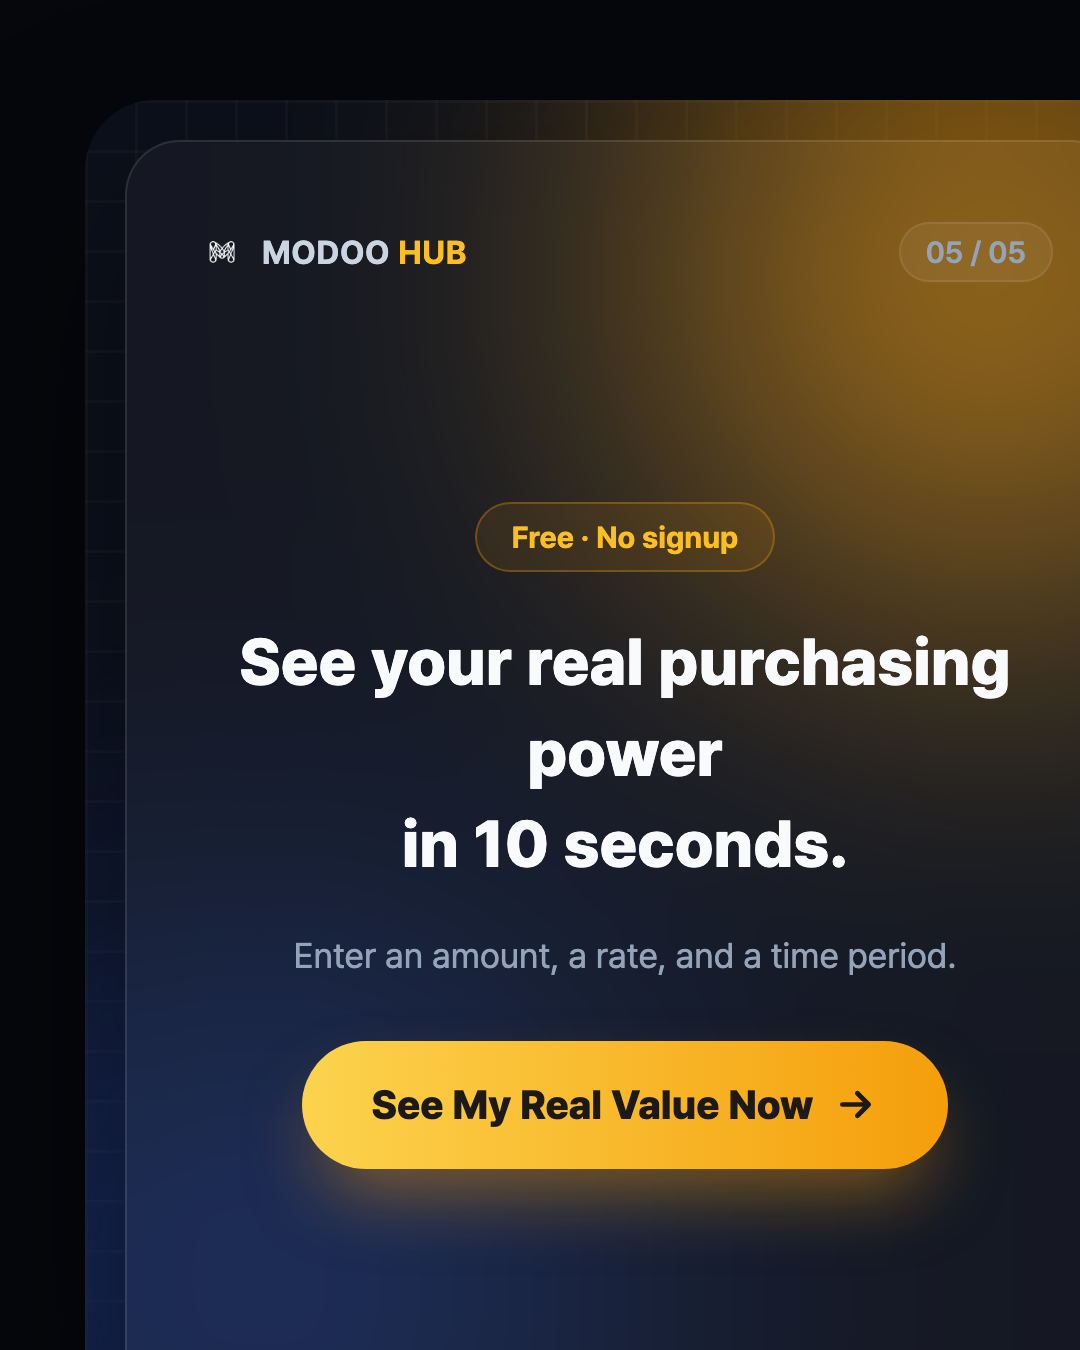
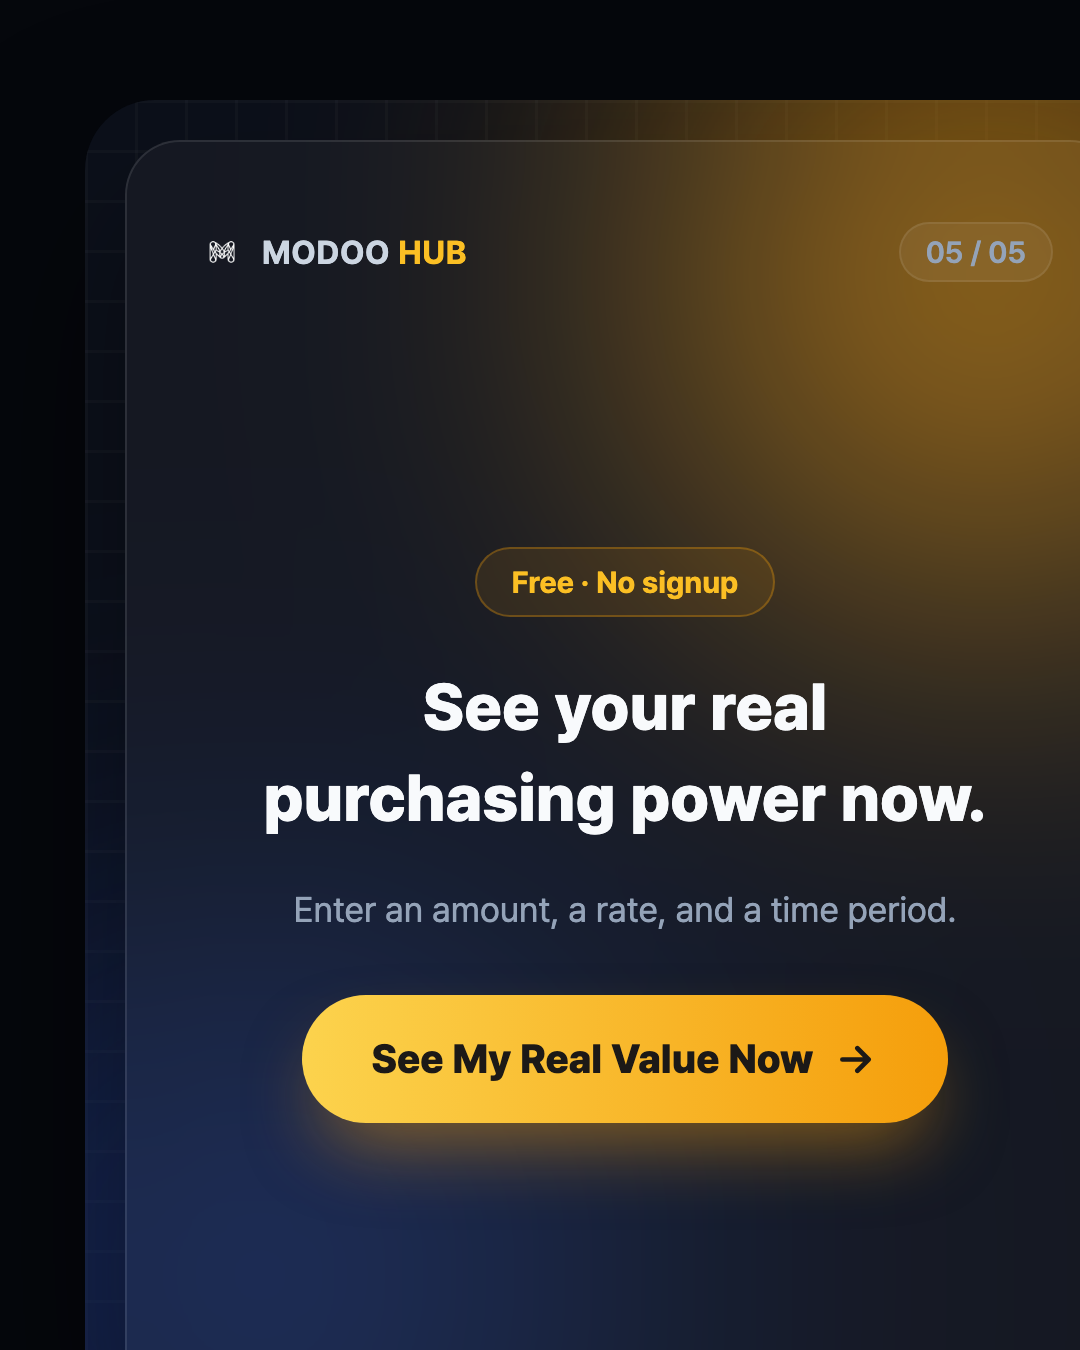
Fix broken 3-line headline wrap on inflation-calculator slide5
"See your real purchasing power<br/>in 10 seconds." wrapped mid-phrase
before hitting the explicit <br/>, leaving "power" orphaned alone on
its own line. Rewrote to "See your real<br/>purchasing power now." —
clean 2-line break, regenerated and visually confirmed.

Changed region(s): [[0.2139, 0.3733, 0.9472, 0.9022]]

diff --git a/promotion/template/global-inflation-calculator.html b/promotion/template/global-inflation-calculator.html
@@ -105,7 +105,7 @@
 
         <div class="slide" data-slide="4" style="flex-direction:column; flex:1; justify-content:center; align-items:center; text-align:center; gap:18px;">
           <span style="font-size:12px; font-weight:700; color:#fbbf24; background:rgba(245,158,11,0.1); border:1px solid rgba(245,158,11,0.3); padding:6px 14px; border-radius:9999px;">Free · No signup</span>
-          <h1 style="font-size:26px; font-weight:800; color:#f8fafc; line-height:1.4; margin:0;">See your real purchasing power<br/>in 10 seconds.</h1>
+          <h1 style="font-size:26px; font-weight:800; color:#f8fafc; line-height:1.4; margin:0;">See your real<br/>purchasing power now.</h1>
           <p style="font-size:14px; color:#94a3b8; margin:0;">Enter an amount, a rate, and a time period.</p>
           <div style="margin-top:8px; display:flex; align-items:center; gap:8px; background:linear-gradient(90deg,#fcd34d,#f59e0b); color:#1c1917; font-weight:800; font-size:16px; padding:16px 28px; border-radius:9999px; box-shadow:0 15px 30px -8px rgba(245,158,11,0.5);">
             See My Real Value Now
